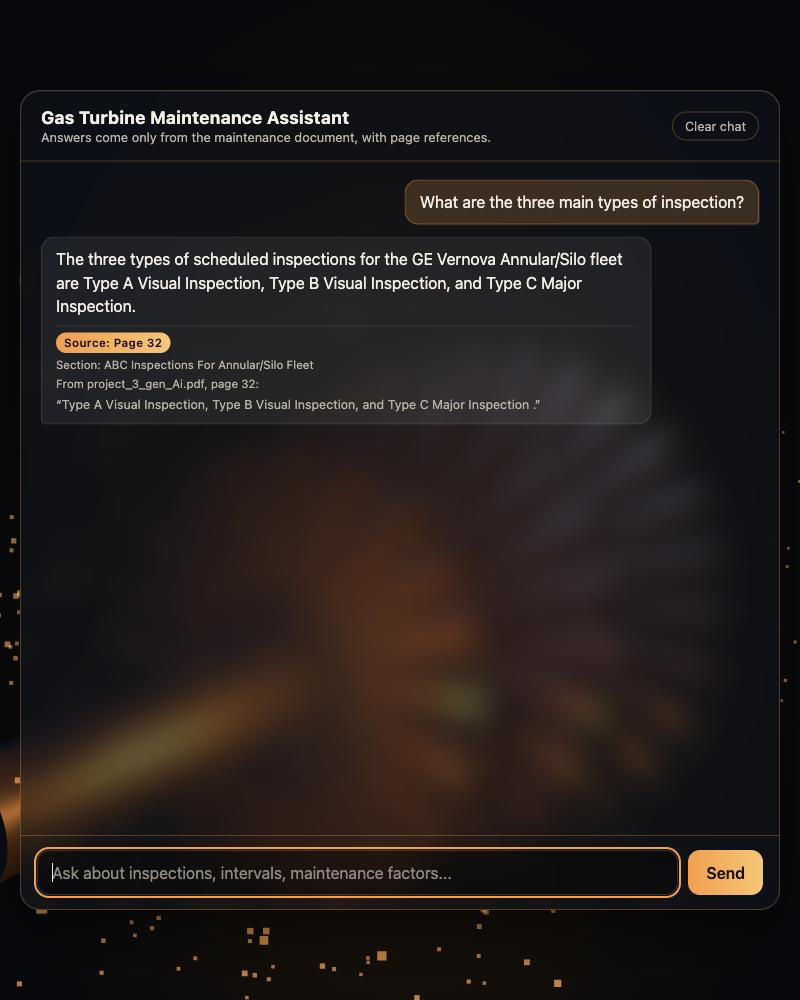
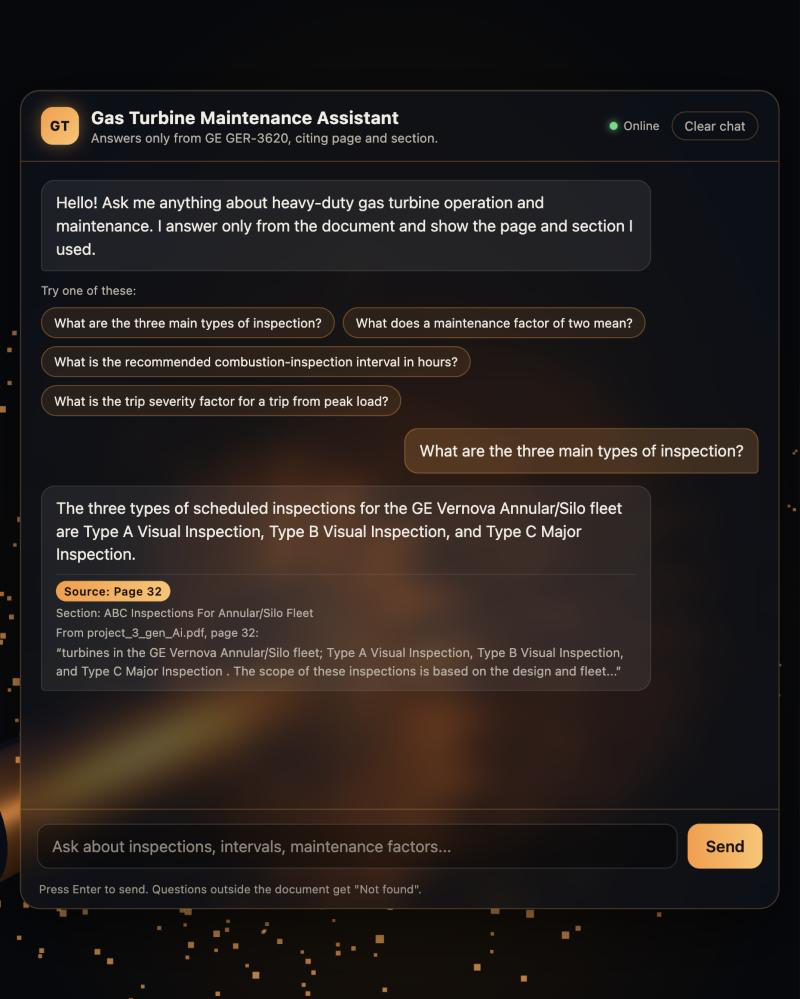
README: screenshots of the updated UI for all 5 official questions

diff --git a/README.md b/README.md
@@ -229,7 +229,7 @@ Official assignment questions, real output of `python run_questions.py`. Plain-t
 
 ## Screenshots
 
-Real screenshots of the web UI (http://localhost:8000/) for the 5 official questions, each showing the question asked, the answer and its page reference.
+Real screenshots of the web UI (http://localhost:8000/) for the 5 official questions, each showing the question asked, the answer, its page and section reference and the quoted evidence. The UI shows an online/offline status indicator and clickable suggested questions.
 
 ### Q1. What are the three main types of inspection?
 
@@ -261,7 +261,7 @@ Answer shown: all model-specific intervals from Figure 36, grouped by turbine ty
 
 ![Q5: What is the recommended combustion-inspection interval in hours?](screenshots/q5.png)
 
-Note: each screenshot is a separate live model call, so its wording can differ slightly from `results/answers.md`.
+Note: each screenshot is a separate live model call, so its wording can differ slightly from `results/answers.md`. For Q5 the exact per-model values are listed in the review notes above (Figure 36, page 33); the PDF loader flattens that table, so a single run can omit or repeat a value.
 
 ## Known limitations
 
